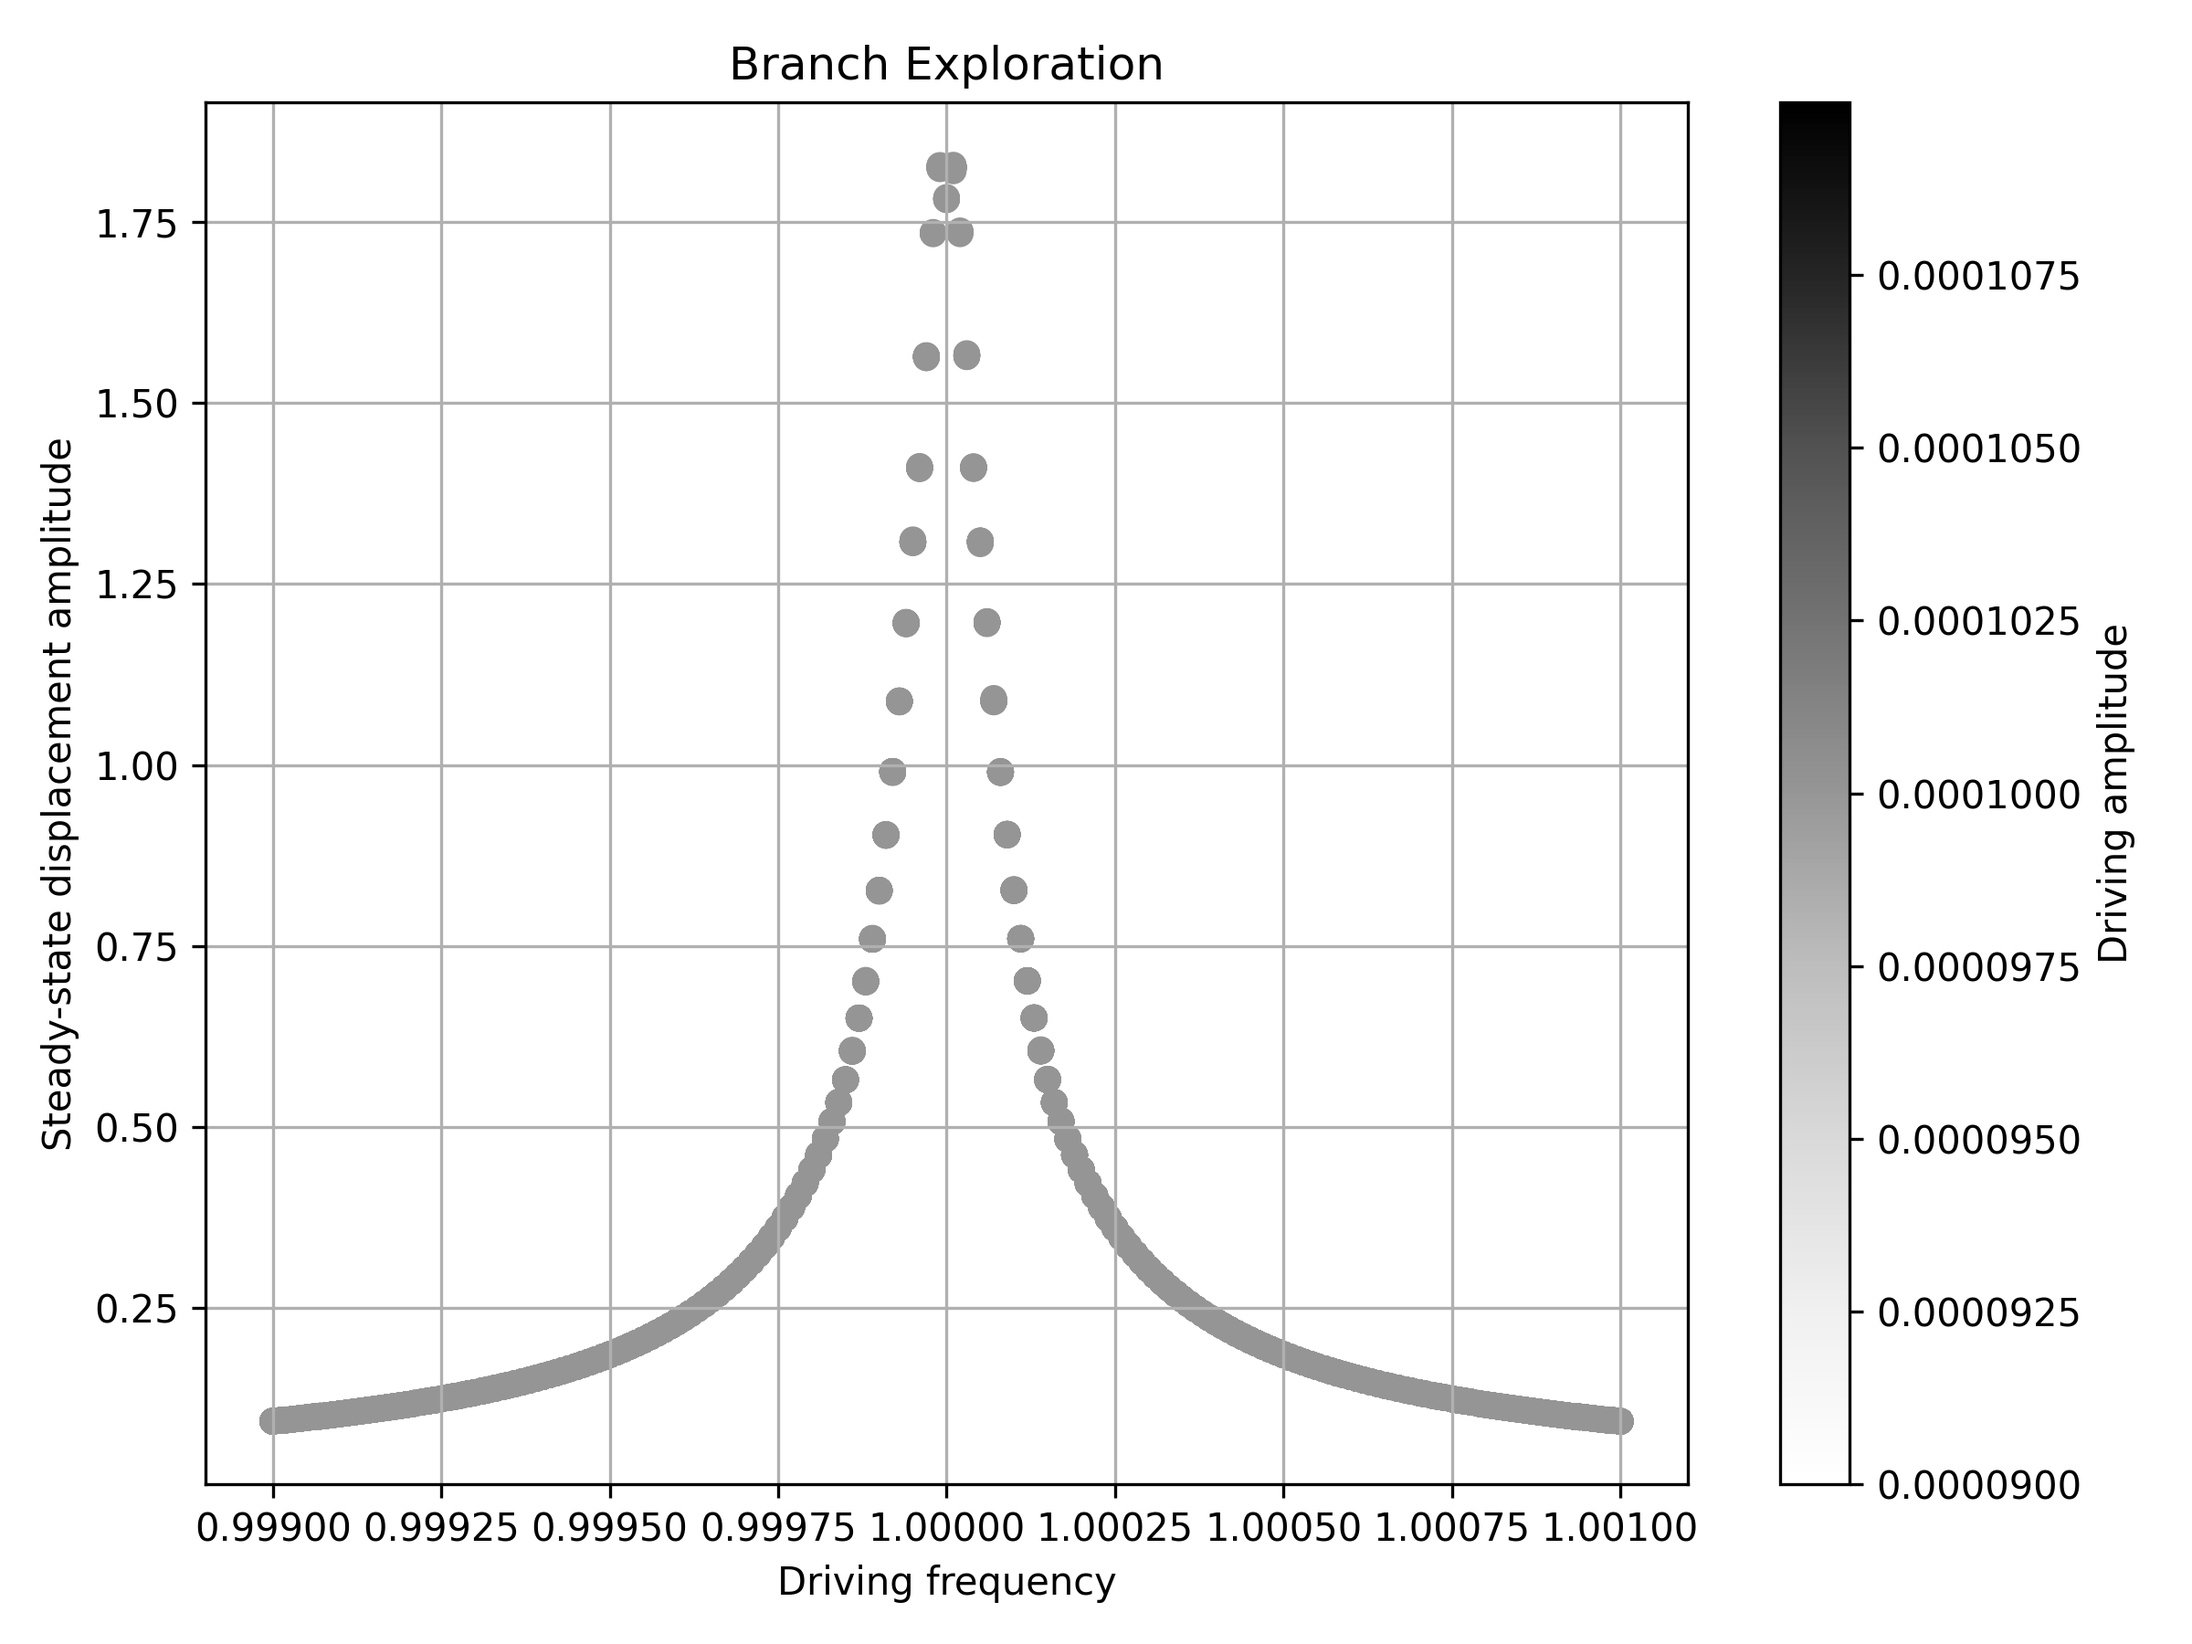
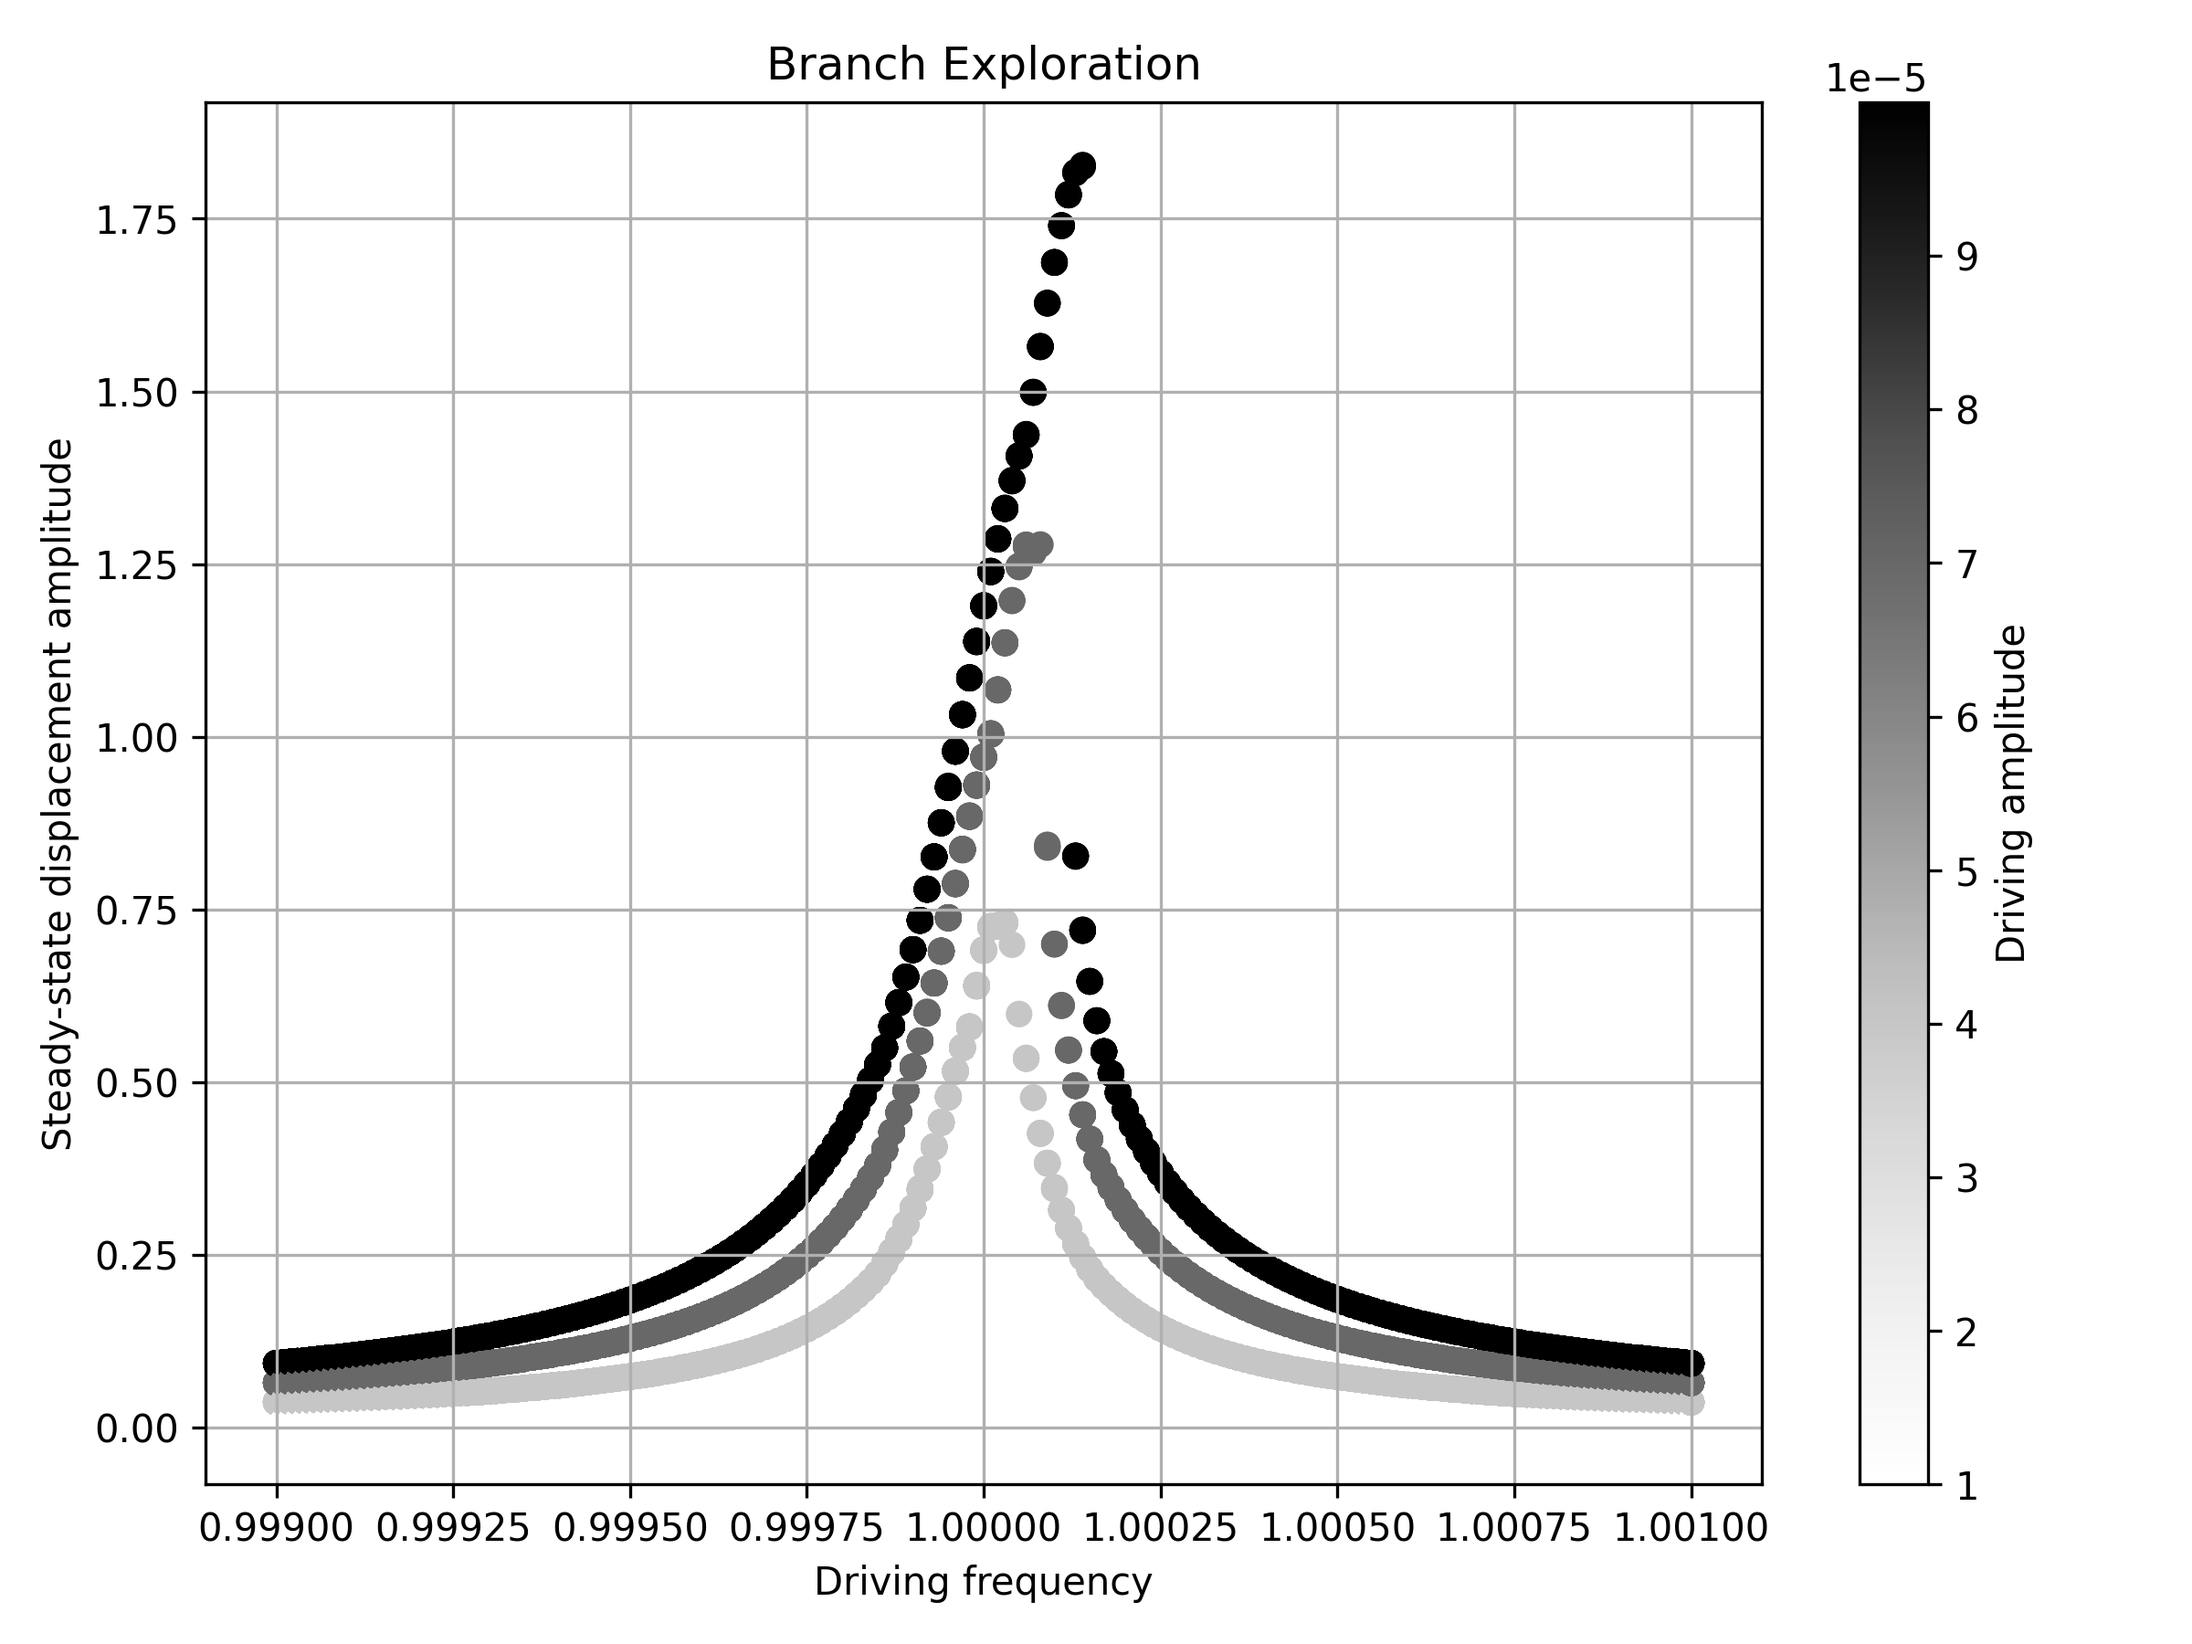
Update gamma parameter in frequency sweep test for improved accuracy

diff --git a/tests/frequency_sweep/test_frequency_sweep.py b/tests/frequency_sweep/test_frequency_sweep.py
@@ -2,14 +2,14 @@ from jax import numpy as jnp
 import oscidyn
 import time
 
-Q, omega_0, gamma = 10000.0, 1.0, 0.000
+Q, omega_0, gamma = 10000.0, 1.0, 0.0004
 full_width_half_max = omega_0 / Q
 
 MODEL = oscidyn.BaseDuffingOscillator.from_physical_params(Q=jnp.array([Q]), gamma=jnp.array([gamma]), omega_0=jnp.array([omega_0]))
 SWEEP_DIRECTION = oscidyn.SweepDirection.FORWARD
 DRIVING_FREQUENCY = jnp.linspace((1.0-10*full_width_half_max), (1.0+10*full_width_half_max), 201) 
 DRIVING_AMPLITUDE = jnp.linspace(0.1* omega_0**2/Q, 1.0*omega_0**2/Q, 4)
-DRIVING_AMPLITUDE = jnp.array([1.0*omega_0**2/Q])
+# DRIVING_AMPLITUDE = jnp.array([1.0*omega_0**2/Q])
 SOLVER = oscidyn.MultipleShootingSolver(max_steps=50, m_segments=10, max_shooting_iterations=50, rtol=1e-6, atol=1e-7)
 PRECISION = oscidyn.Precision.SINGLE
 
